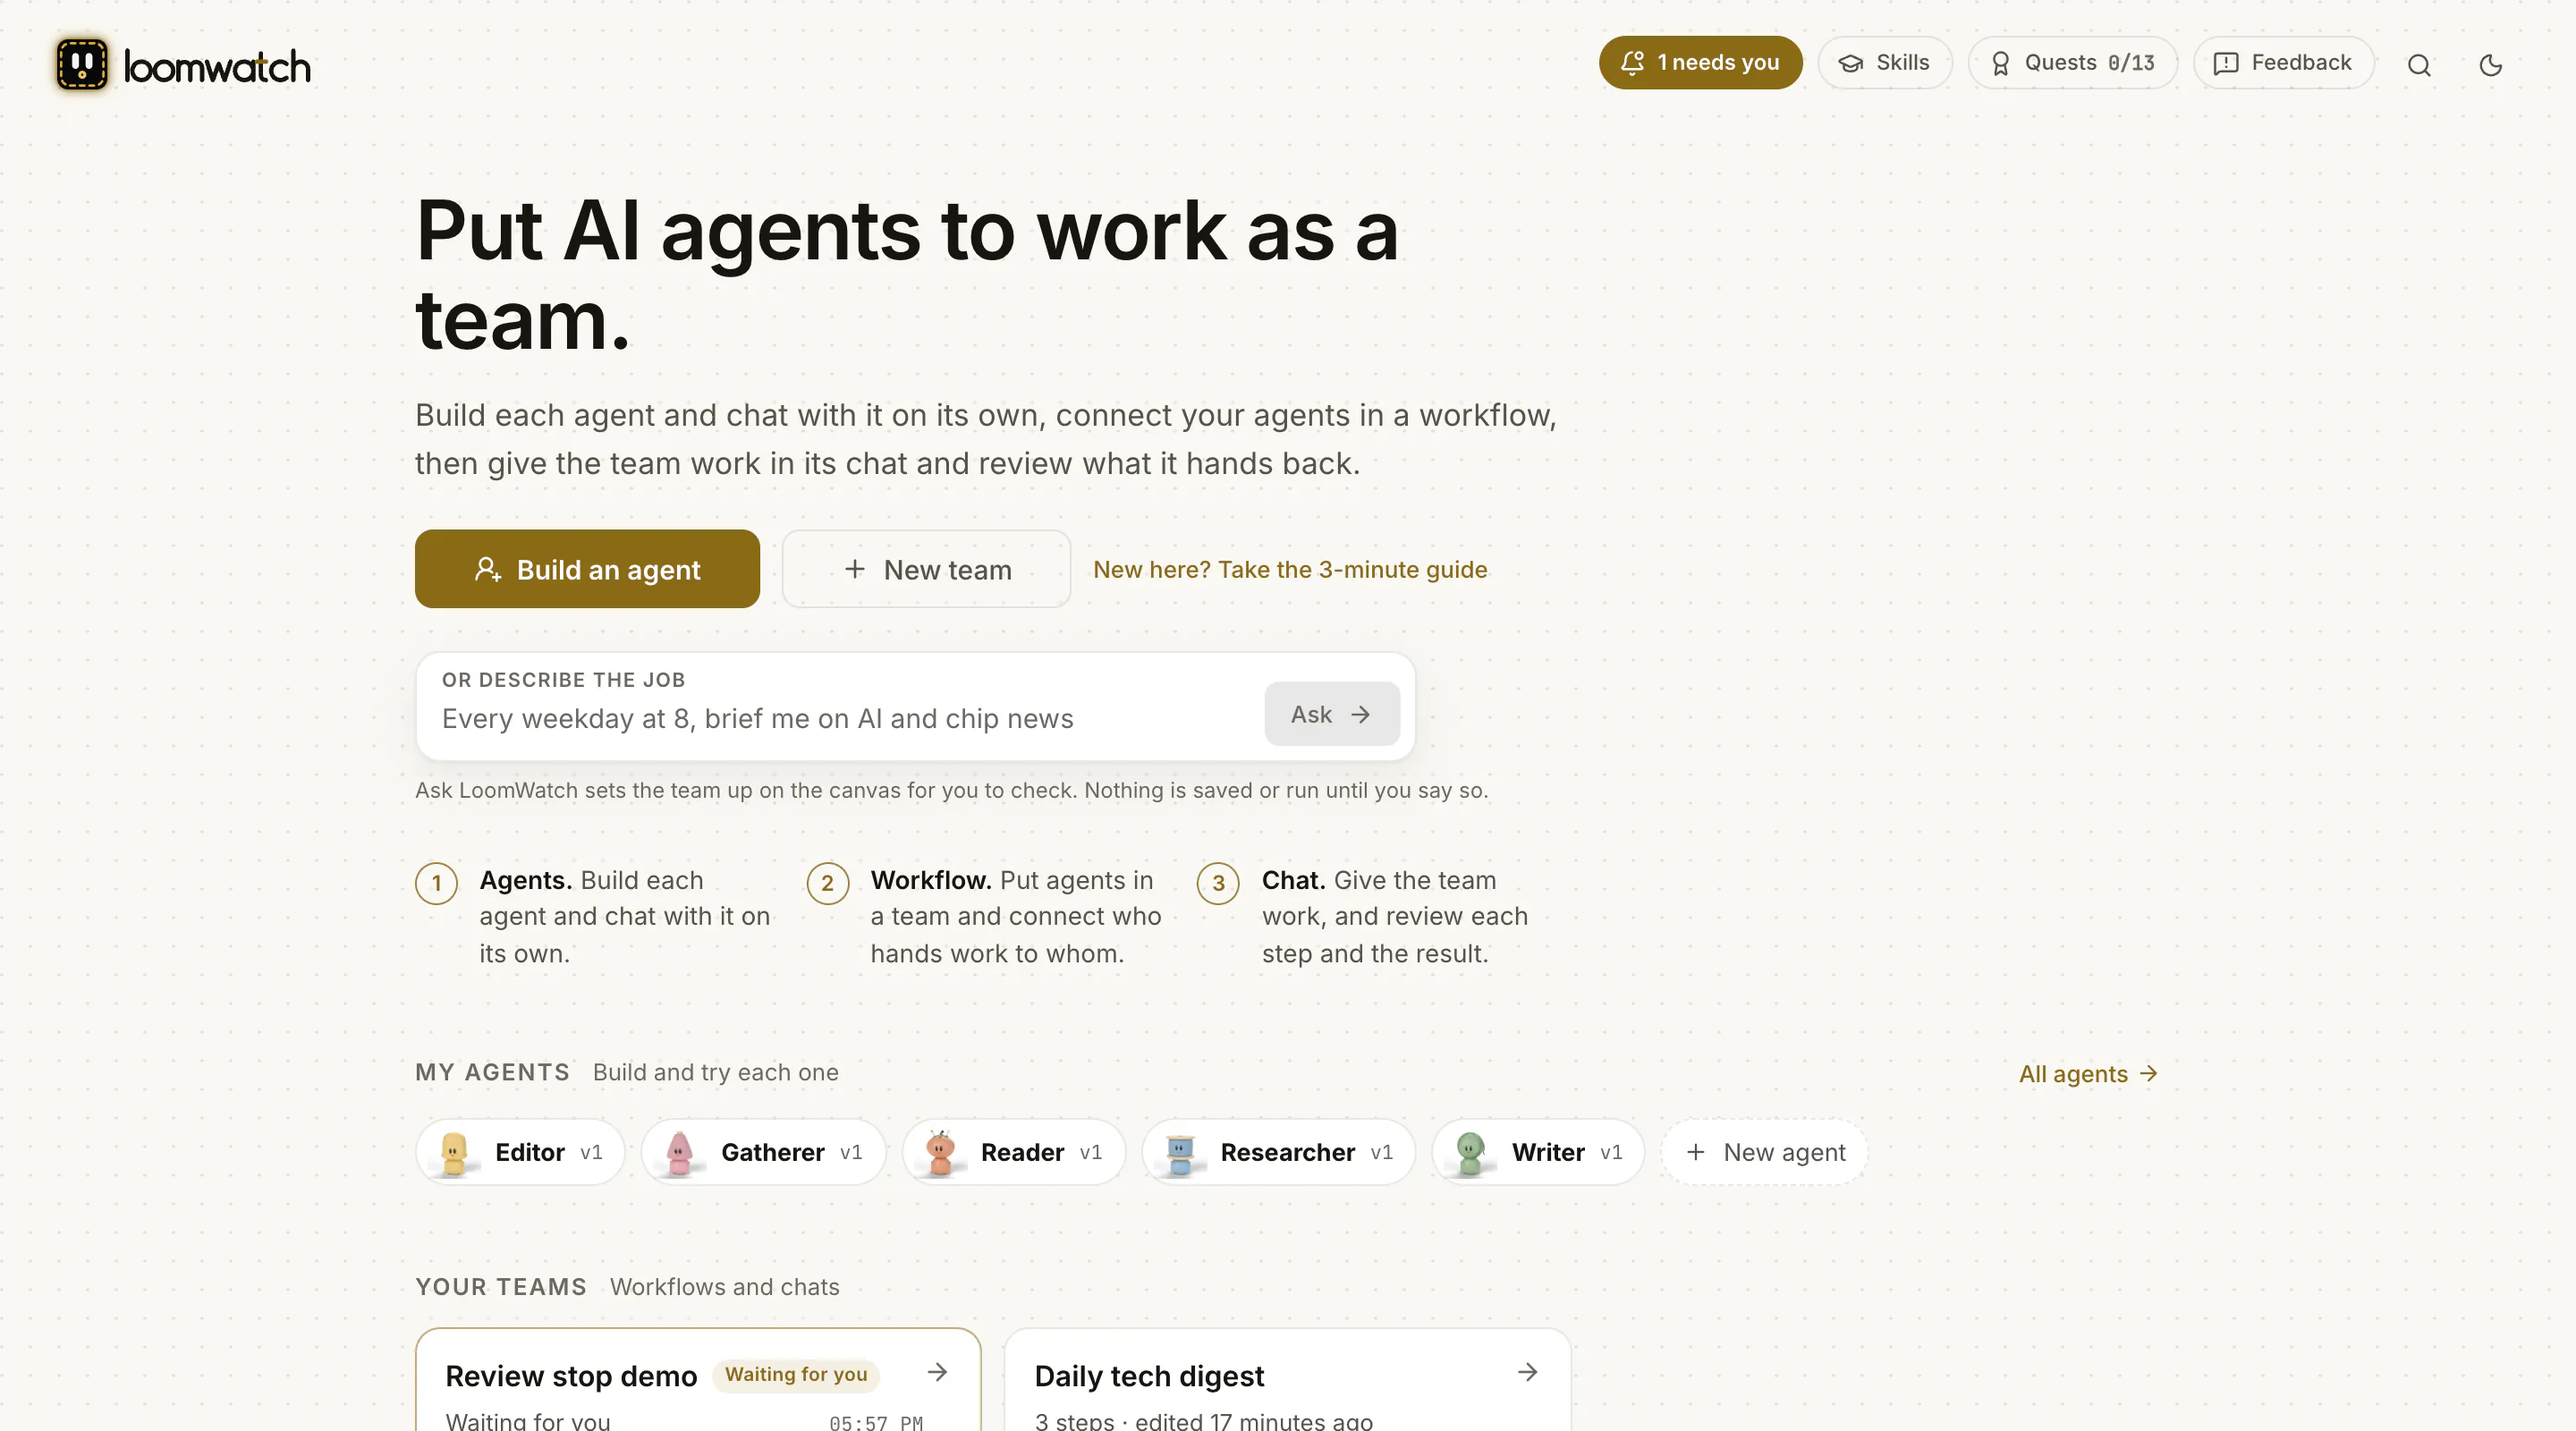
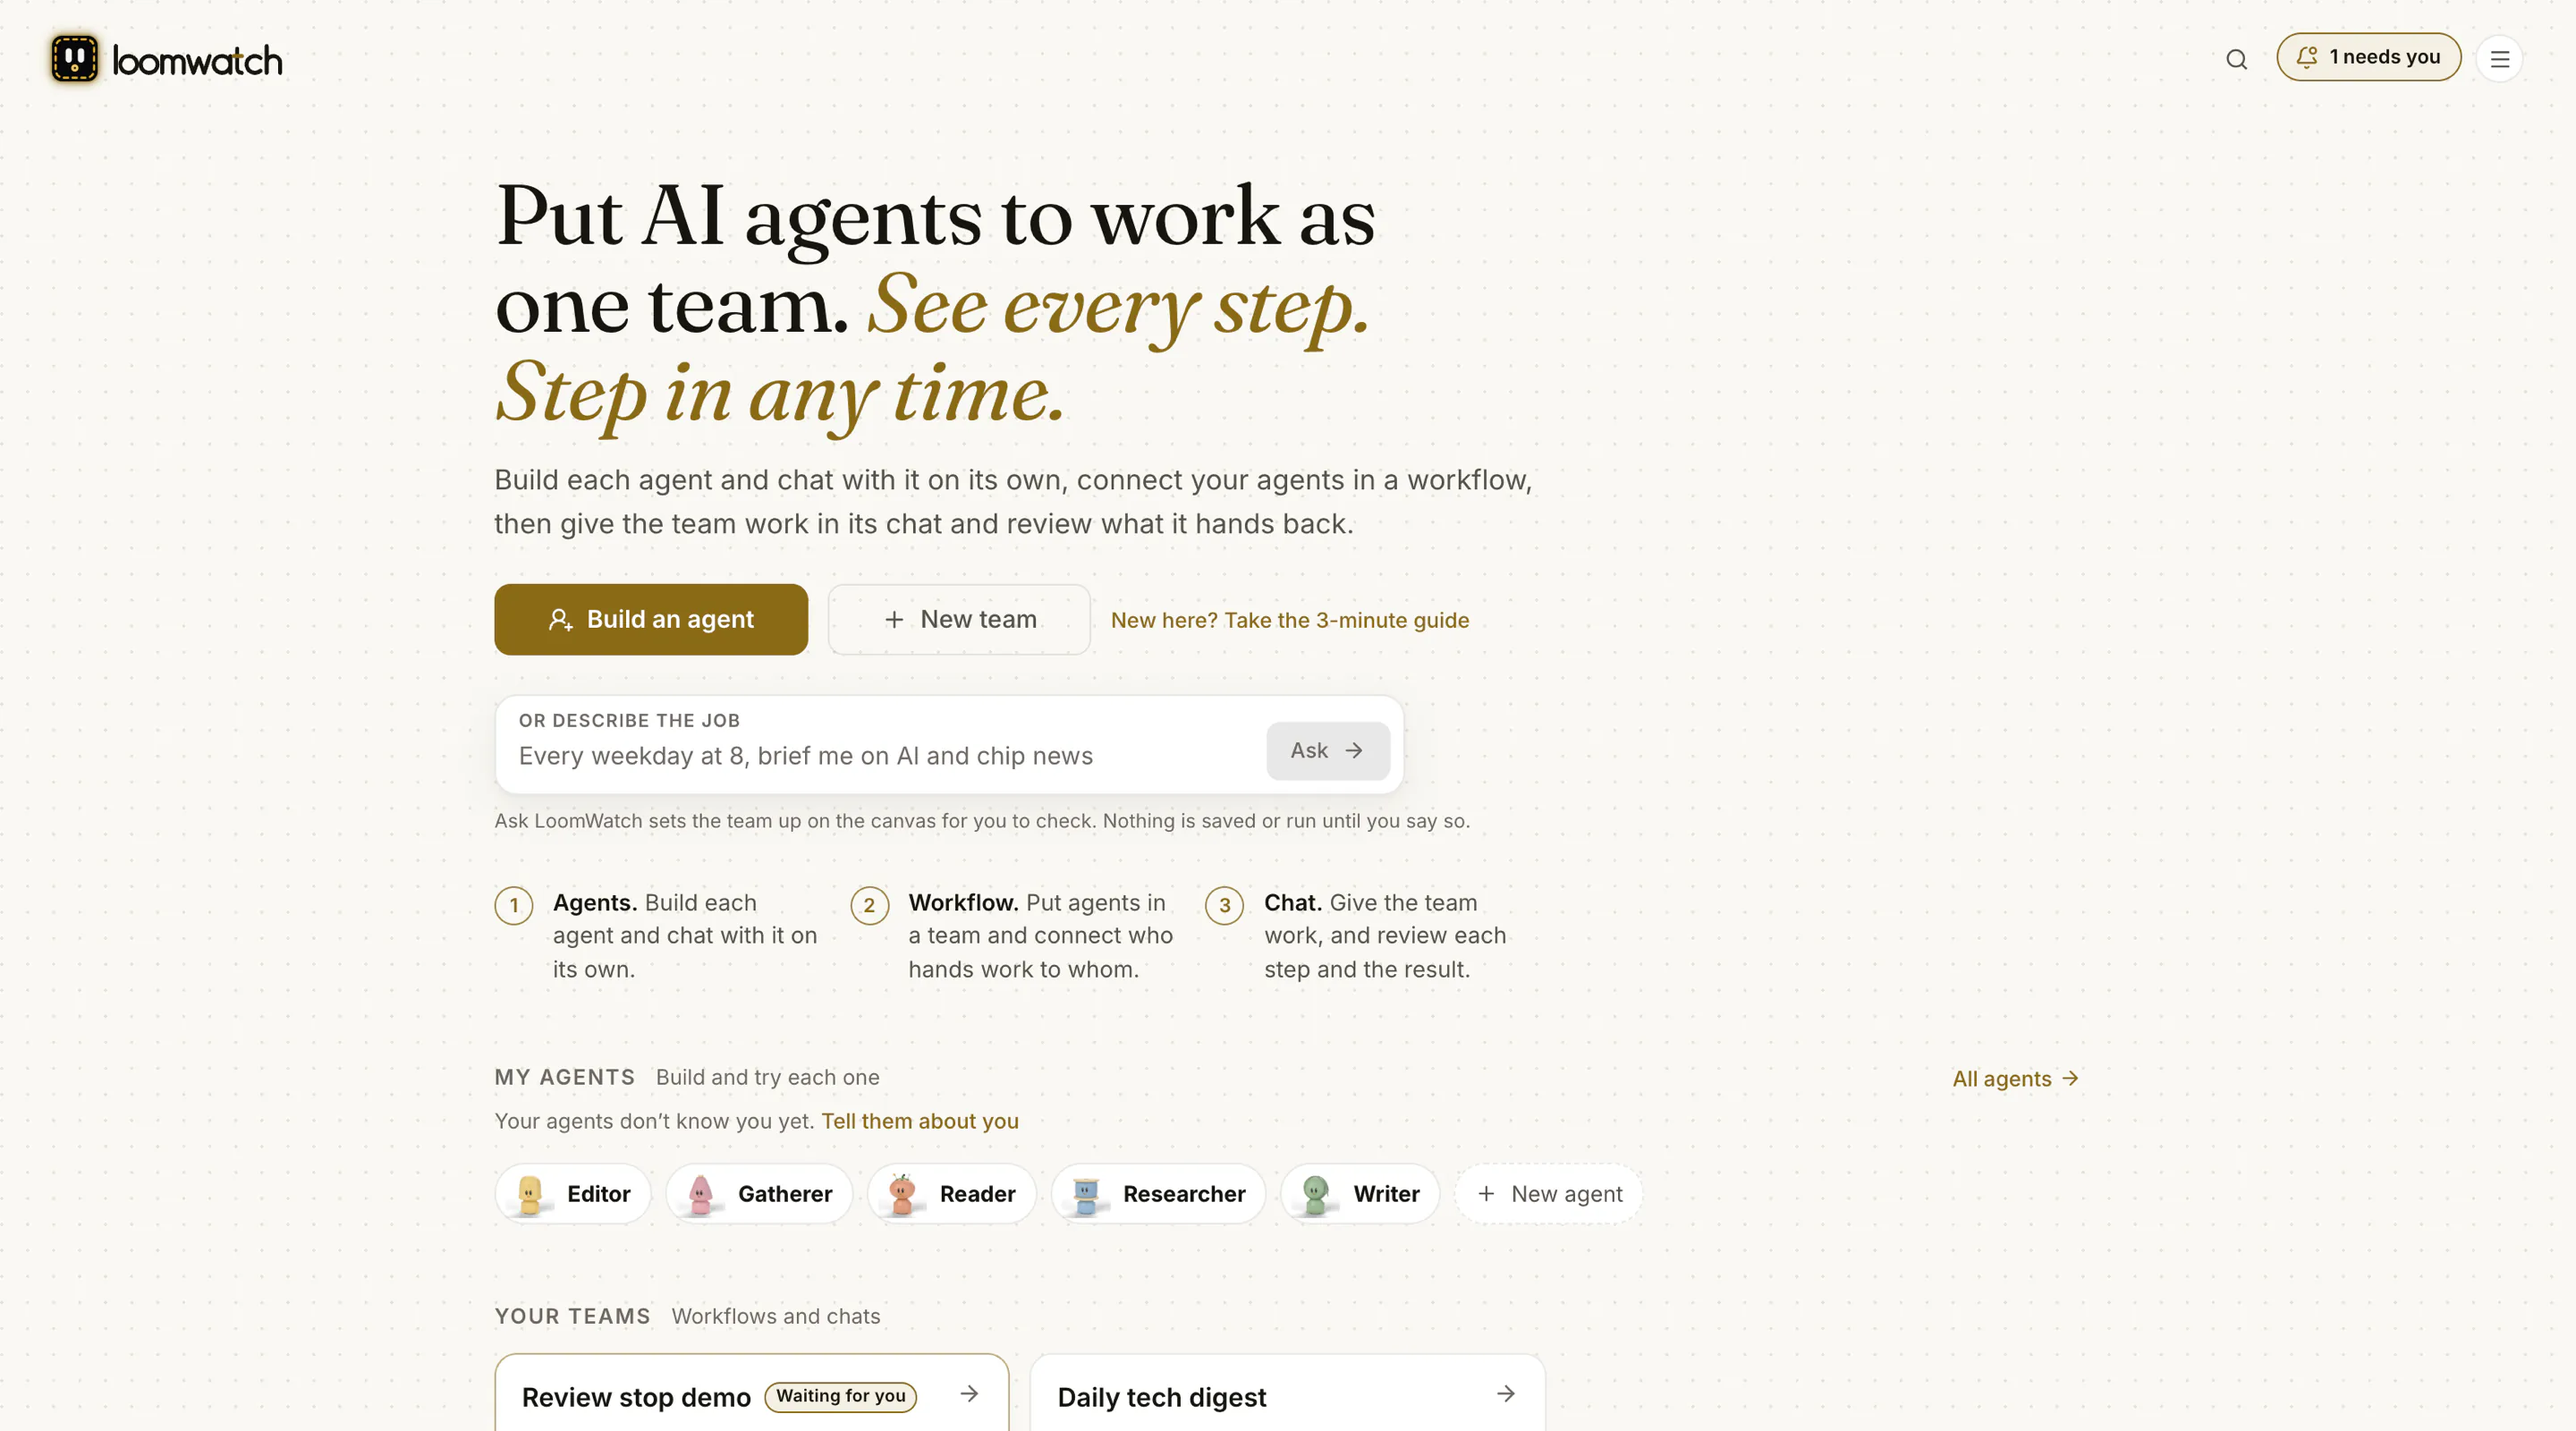
docs(readme): retake the Home, Workflow and agent page shots with the rail and no version numbers (#188)
The README's Home, Workflow and agent page shots were taken before #187. Home's row of agents
and the Workflow tab's add panel still said "v1", and the agent page still had its own header
with "v1 · saved 4 hours ago" and a Save button.

- home-, workflow- and agents-{light,dark}.webp retaken from a throwaway trial of main 0a705462
  (scratch state folder, offline demo agents, port 3487), with the same five saved agents, the
  Daily tech digest team and Writer on its Build tab as #136. Same 2880x1600 size.
- They now show what main has: the rail of agents and of teams, an agent's page in the team
  page's header, the needs-you bell as a gold ring (one gold fill per screen), the menu on Home
  and the stone workbench in light mode.
- The trial for the Workflow shot also has the Review stop demo, so the team rail has two teams
  to switch between. Its Researcher and Writer are linked to the saved ones so the add panel
  keeps the same rows.
- Home's headline is three lines now and has a "Tell them about you" line, which pushed Your
  teams below a 1440x800 view. Home was taken at 1584x880 at 2x and shrunk to 2880x1600, so it
  still shows the waiting Review stop demo.
- The three alt texts say what the new shots show: the rail, the shared header, Home's new
  headline and menu. The captions were still true and are unchanged.

diff --git a/README.md b/README.md
@@ -69,7 +69,7 @@ and asks.
 <td width="50%" valign="middle">
 <picture>
   <source media="(prefers-color-scheme: dark)" srcset="site/assets/app/agents-dark.webp">
-  <img src="site/assets/app/agents-light.webp" alt="Building an agent called Writer in Your agents. On the left, a figure sits at a workbench: a clipboard for its job, a laptop showing the model it thinks with, Claude Opus 5.5, a recipe card for its one skill, empty key hooks because it may not act without asking, and a tray for what it hands back. On the right, the same settings as plain blocks, starting with Name and Instructions. Above them, one sentence sums the agent up: Writer thinks with Claude Opus 5.5 and has 1 recipe card.">
+  <img src="site/assets/app/agents-light.webp" alt="Building an agent called Writer. Along the top, the name Writer, marked Saved, the Build and Chat tabs, and the bell saying 1 needs you. Down the left edge, a column of My agents' figures, with Writer's marked; pick one to open it. Under the top bar, one sentence sums the agent up: Writer thinks with Claude Opus 5.5, has 1 recipe card and reads nothing yet. Below it, Writer's figure sits at a workbench: a clipboard for its job, a laptop showing the model it thinks with, Claude Opus 5.5, a recipe card for its one skill, empty key hooks because it asks you before it searches the web, changes files or runs a command, and a tray for what it hands back. On the right, the same settings as a form, starting with Name and Instructions.">
 </picture>
 </td>
 <td width="50%" valign="middle">
@@ -378,7 +378,7 @@ you built, then add, connect and rename agents to match. To run a team on a sche
 <td align="center">
 <picture>
   <source media="(prefers-color-scheme: dark)" srcset="site/assets/app/home-dark.webp">
-  <img src="site/assets/app/home-light.webp" alt="Home: Put AI agents to work as a team. Build an agent, New team and the 3-minute guide, a box to describe the job to Ask, the Agents, Workflow and Chat steps, a row of My agents with their figures, and Your teams below, where the Review stop demo is Waiting for you. At the top, the bell says 1 needs you.">
+  <img src="site/assets/app/home-light.webp" alt="Home: Put AI agents to work as one team. See every step. Step in any time. Build an agent, New team and the 3-minute guide, a box to describe the job, with an Ask button, the Agents, Workflow and Chat steps, a row of My agents with their figures and a link to tell them about you, and Your teams below, where the Review stop demo is Waiting for you. At the top right, the bell says 1 needs you, between search and the menu.">
 </picture>
 <br><sub><strong>Home.</strong> Your agents first, each with its face, then the teams they work in.</sub>
 </td>
@@ -387,7 +387,7 @@ you built, then add, connect and rename agents to match. To run a team on a sche
 <td align="center">
 <picture>
   <source media="(prefers-color-scheme: dark)" srcset="site/assets/app/workflow-dark.webp">
-  <img src="site/assets/app/workflow-light.webp" alt="A team's Workflow tab: a daily schedule feeds Gatherer, then Reader, then Writer, which produces the team response. Above the canvas the team is read back as one sentence, with each agent's figure. On the left, the add panel lists My agents with the models they think with, the Build a new agent link, then Workflow steps with You (review step). The heading says Your team is ready, beside Run team.">
+  <img src="site/assets/app/workflow-light.webp" alt="A team's Workflow tab: a daily schedule feeds Gatherer, then Reader, then Writer, which produces the team response. At the top of the canvas the team is read back as one sentence, with each agent's figure. Down the left edge, a column shows each of your teams by its agents' figures, with this one marked; pick one to switch. Beside it, the Add to your team panel lists My agents with the models they think with, the Build a new agent link, then Workflow steps with You (review step). The heading says Your team is ready, beside Run team.">
 </picture>
 <br><sub><strong>Workflow.</strong> Your agents on the canvas, connected in order and read back as one sentence.</sub>
 </td>
